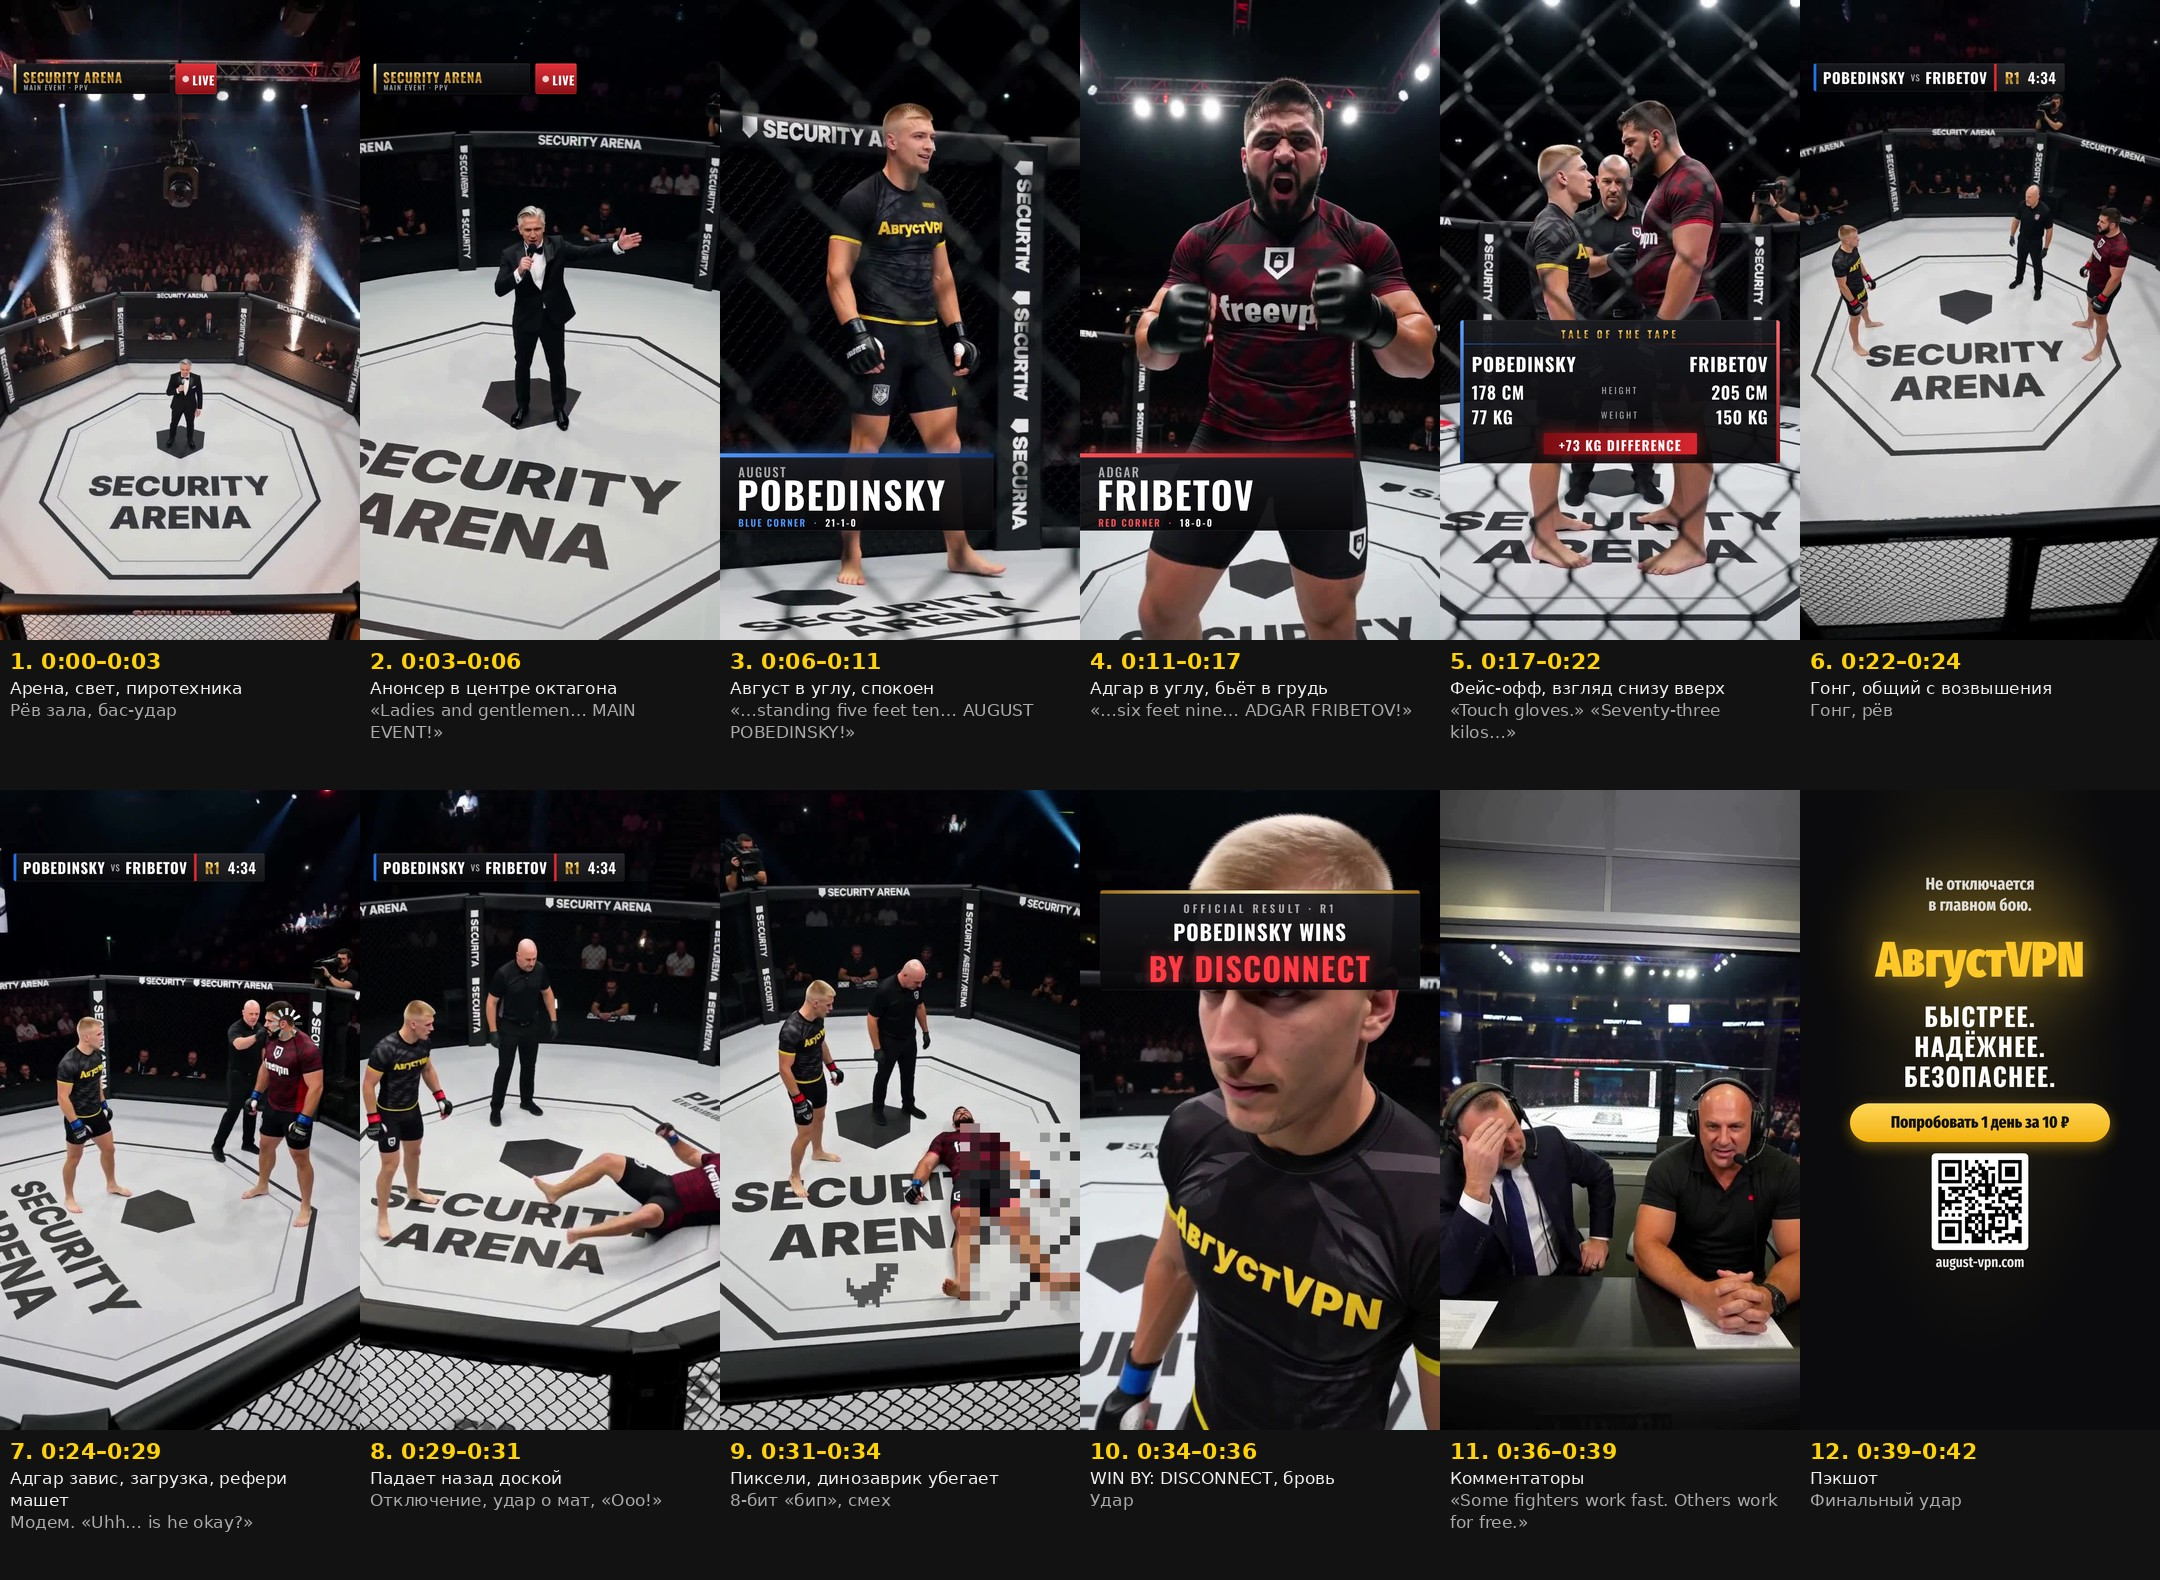
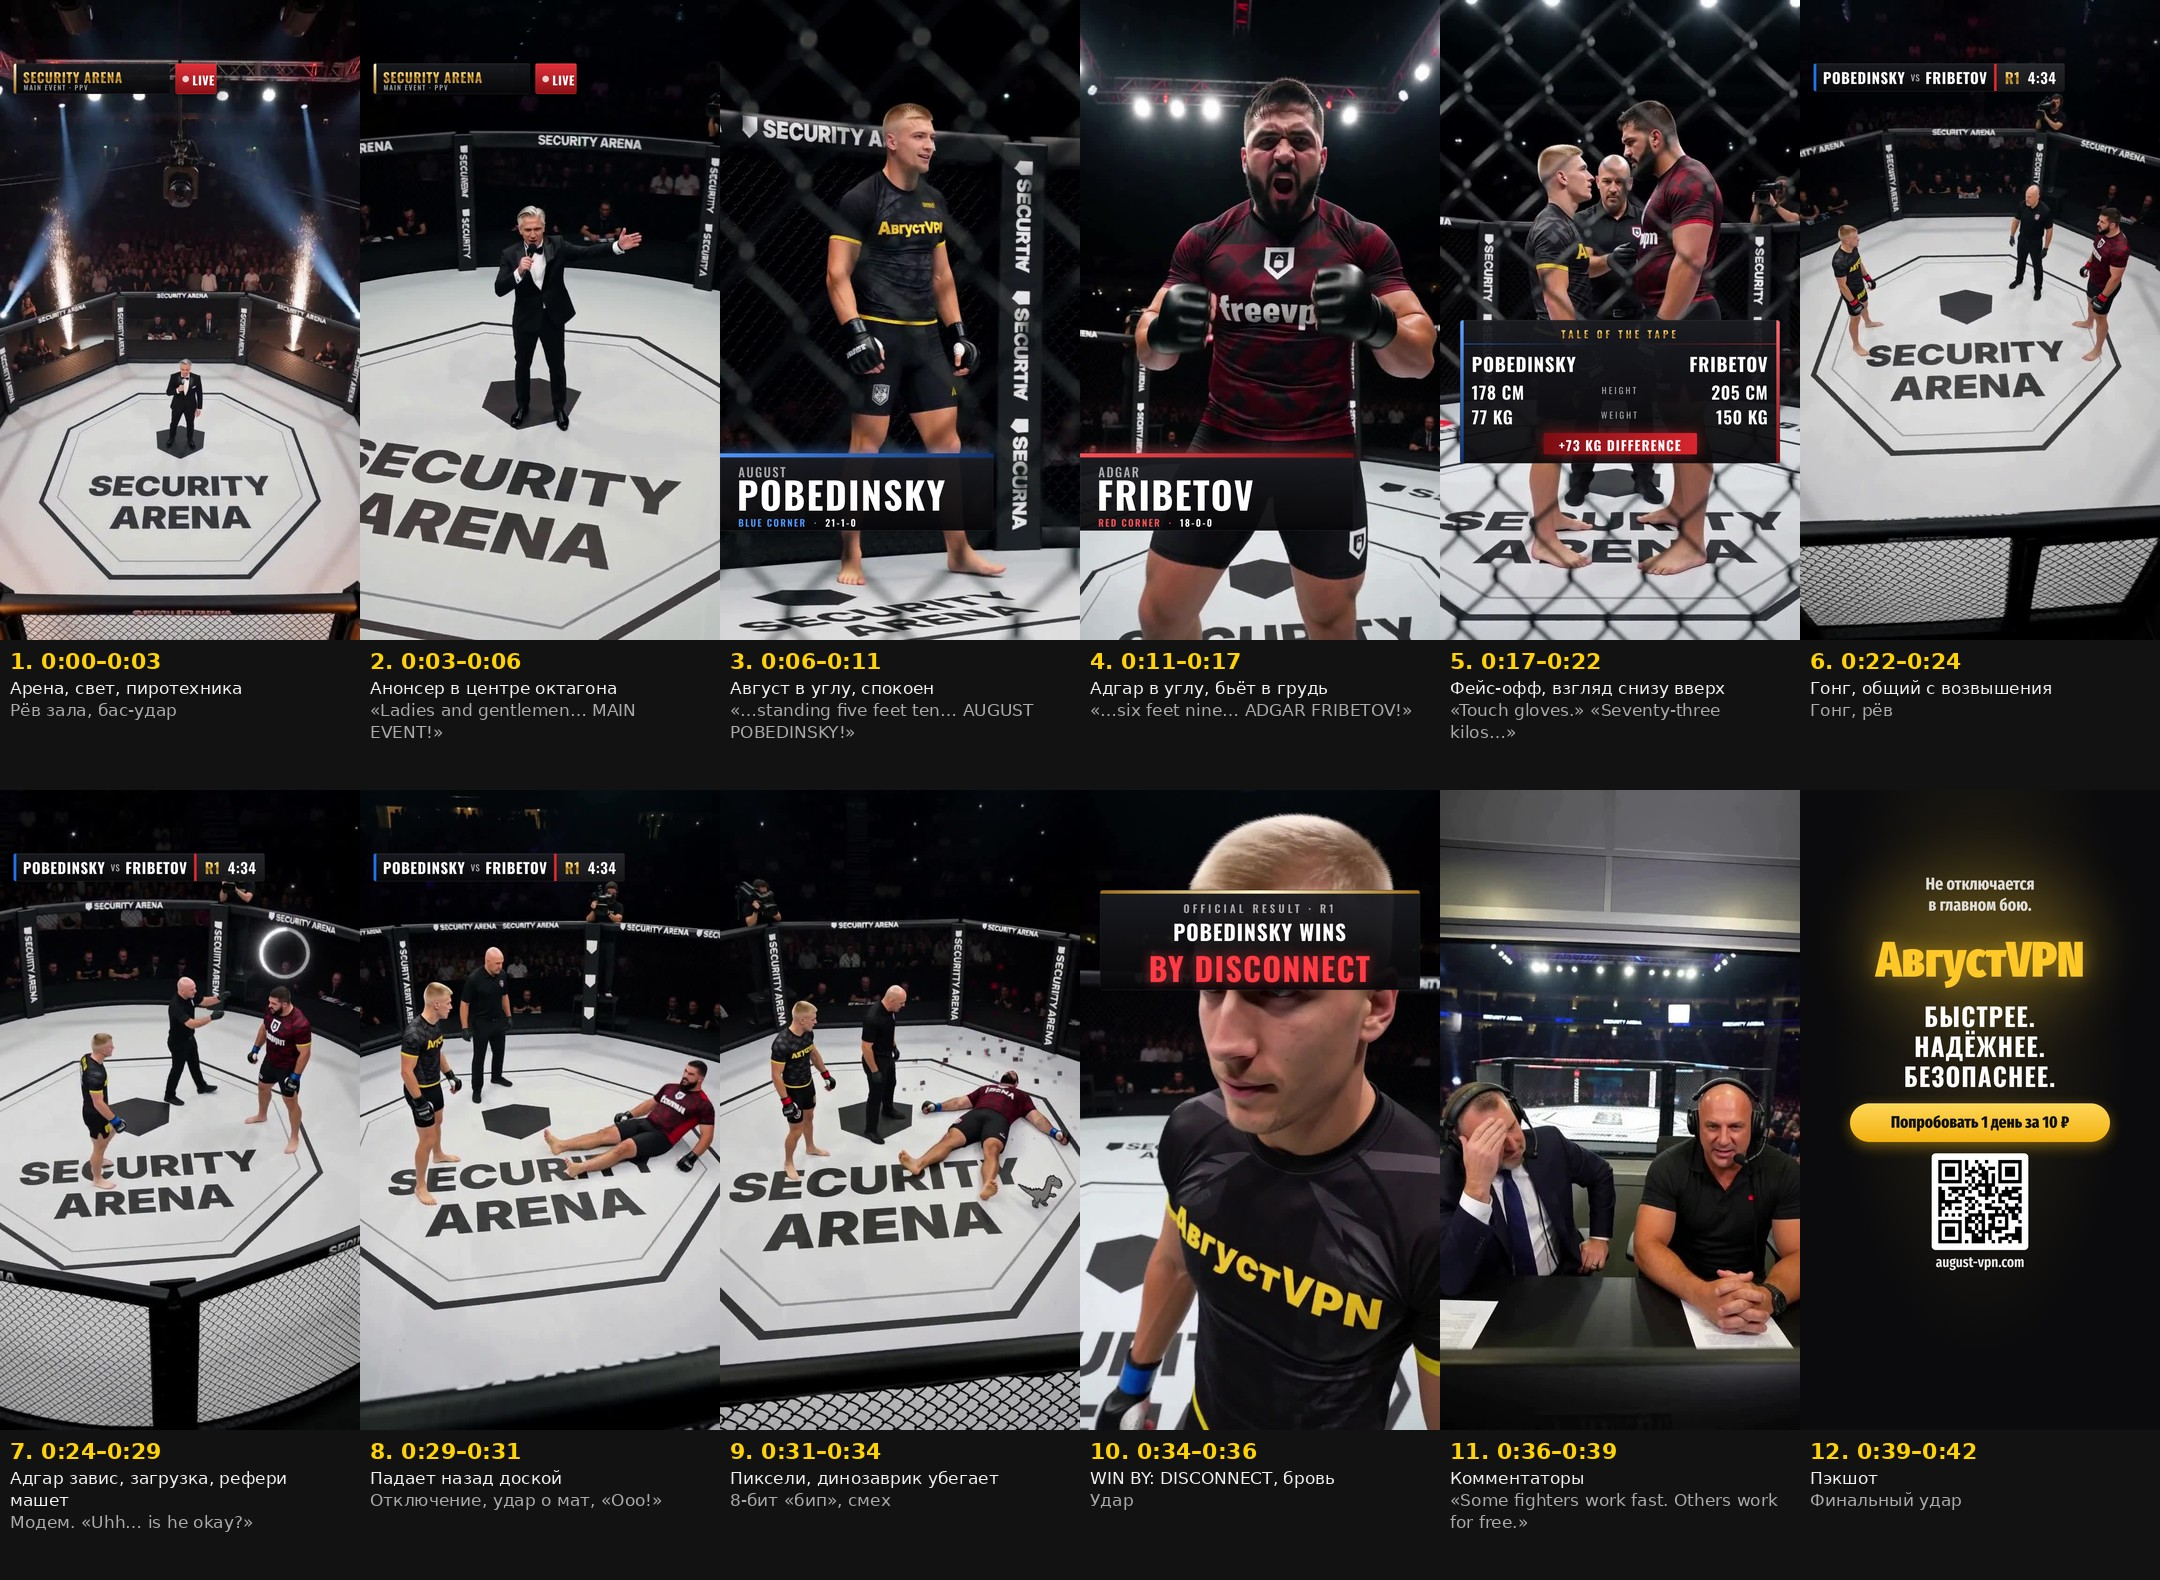
v2 storyboard: scenes 7-9 effects prompted in generation (loading ring, pixel break-up, dino), no manual overlays
Claude-Session: https://claude.ai/code/session_01XVXXkRCifbngRuEzPeV6Fr

diff --git a/productions/augustvpn_v2/storyboard/keyframes.py b/productions/augustvpn_v2/storyboard/keyframes.py
@@ -57,16 +57,16 @@ SHOTS = [
          "The operator holds the wide frame with a slight pan.", 62),
     shot(7, "octagon", "high_wide_tele", "wide high shot of the octagon from the main camera platform behind the cage",
          [P("august", "left", "right"), P("referee", "center", "right"), P("adgar", "right", "left")],
-         "{august} bounces lightly on his toes in the center; {adgar} stands perfectly still in his fighting stance near his corner, frozen; {referee} walks up to {adgar} and waves a hand in front of his face.",
-         "The operator pans slightly toward {adgar} and zooms in a little.", 71),
+         "{august} bounces lightly on his toes in the center; {adgar} stands perfectly still in his fighting stance near his corner, frozen like a paused video; a large glowing white circular loading spinner icon, like a buffering video, floats in the air just above his head; {referee} walks up to {adgar} and waves a hand in front of his face.",
+         "The operator pans slightly toward {adgar} and zooms in a little.", 72),
     shot(8, "octagon", "high_wide_tele", "wide high shot of the octagon from the main camera platform behind the cage",
          [P("august", "left", "right"), P("referee", "center", "right"), P("adgar", "right", "left")],
-         "{adgar} topples backward stiff as a plank, halfway down to the canvas, arms still up in his stance; {august} and {referee} step back in surprise.",
-         "The operator follows the fall with a quick tilt down.", 81),
+         "{adgar}, completely rigid, topples straight backward like a falling wooden plank, his body perfectly straight from heels to head, tilted halfway to the canvas, arms still locked in his fighting stance; {august} and {referee} step back in surprise.",
+         "The operator follows the fall with a quick tilt down.", 82),
     shot(9, "octagon", "high_wide_tele", "wide high shot of the octagon from the main camera platform behind the cage",
          [P("august", "left", "right"), P("referee", "center", "right"), P("adgar", "right", "camera")],
-         "{adgar} lies flat on his back on the canvas, completely still; {referee} stands over him; {august} looks down at him.",
-         "The operator holds the wide frame.", 91),
+         "{adgar} lies flat on his back on the canvas and his body is breaking apart into large square digital pixels that scatter upward like a glitching video game; next to him on the white canvas a small grey 8-bit pixel-art dinosaur, like the offline dinosaur from a web browser game, runs away toward the cage; {referee} and {august} stare at it.",
+         "The operator holds the wide frame.", 92),
     shot(10, "octagon", "in_cage_handheld", "close-up of the fighter's face inside the cage after the fight",
          [P("august", "center", "left")],
          "{august} looks down at the canvas and raises one eyebrow ironically.",

diff --git a/productions/augustvpn_v2/storyboard/board.py b/productions/augustvpn_v2/storyboard/board.py
@@ -18,9 +18,9 @@ PANELS = [
     ("kf/K04.jpg", ["name_adgar.still.png"], None, "0:11–0:17", "Адгар в углу, бьёт в грудь", "«…six feet nine… ADGAR FRIBETOV!»"),
     ("kf2/K05.jpg", ["tale_of_tape.still.png"], None, "0:17–0:22", "Фейс-офф, взгляд снизу вверх", "«Touch gloves.» «Seventy-three kilos…»"),
     ("kf2/K06.jpg", ["scorebug.still.png"], None, "0:22–0:24", "Гонг, общий с возвышения", "Гонг, рёв"),
-    ("kf/K07.jpg", ["scorebug.still.png"], "spinner", "0:24–0:29", "Адгар завис, загрузка, рефери машет", "Модем. «Uhh… is he okay?»"),
-    ("kf/K08.jpg", ["scorebug.still.png"], None, "0:29–0:31", "Падает назад доской", "Отключение, удар о мат, «Ооо!»"),
-    ("kf/K09.jpg", [], "dino", "0:31–0:34", "Пиксели, динозаврик убегает", "8-бит «бип», смех"),
+    ("kf3/K07.jpg", ["scorebug.still.png"], None, "0:24–0:29", "Адгар завис, загрузка, рефери машет", "Модем. «Uhh… is he okay?»"),
+    ("kf3/K08.jpg", ["scorebug.still.png"], None, "0:29–0:31", "Падает назад доской", "Отключение, удар о мат, «Ооо!»"),
+    ("kf3/K09.jpg", [], None, "0:31–0:34", "Пиксели, динозаврик убегает", "8-бит «бип», смех"),
     ("kf/K10.jpg", ["result.still.png"], None, "0:34–0:36", "WIN BY: DISCONNECT, бровь", "Удар"),
     ("kf/K11.jpg", [], None, "0:36–0:39", "Комментаторы", "«Some fighters work fast. Others work for free.»"),
     (None, ["packshot.still.png"], None, "0:39–0:42", "Пэкшот", "Финальный удар"),
